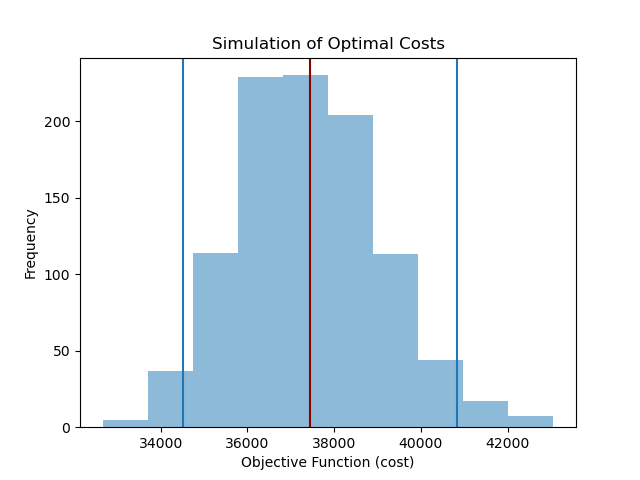
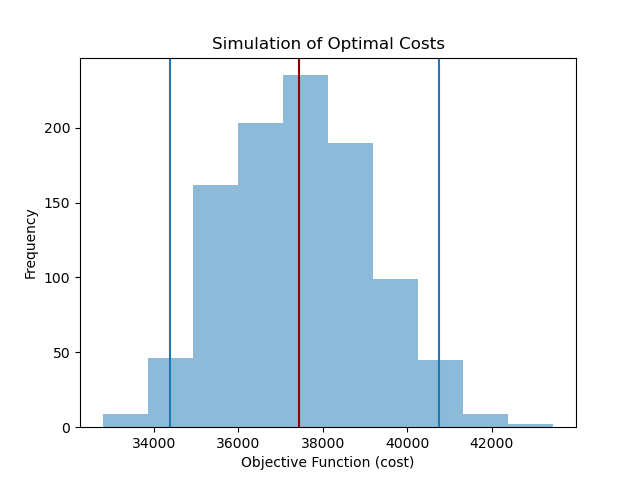
getting CF for simulation

diff --git a/main.py b/main.py
@@ -37,6 +37,8 @@ def main():
 
     print(np.mean(opt))
     print(np.std(opt))
+    print(opt[int(len(opt)*0.025-1)])
+    print(opt[int(len(opt)*0.975-1)])
     PlotSimulations(opt)
 
     return
